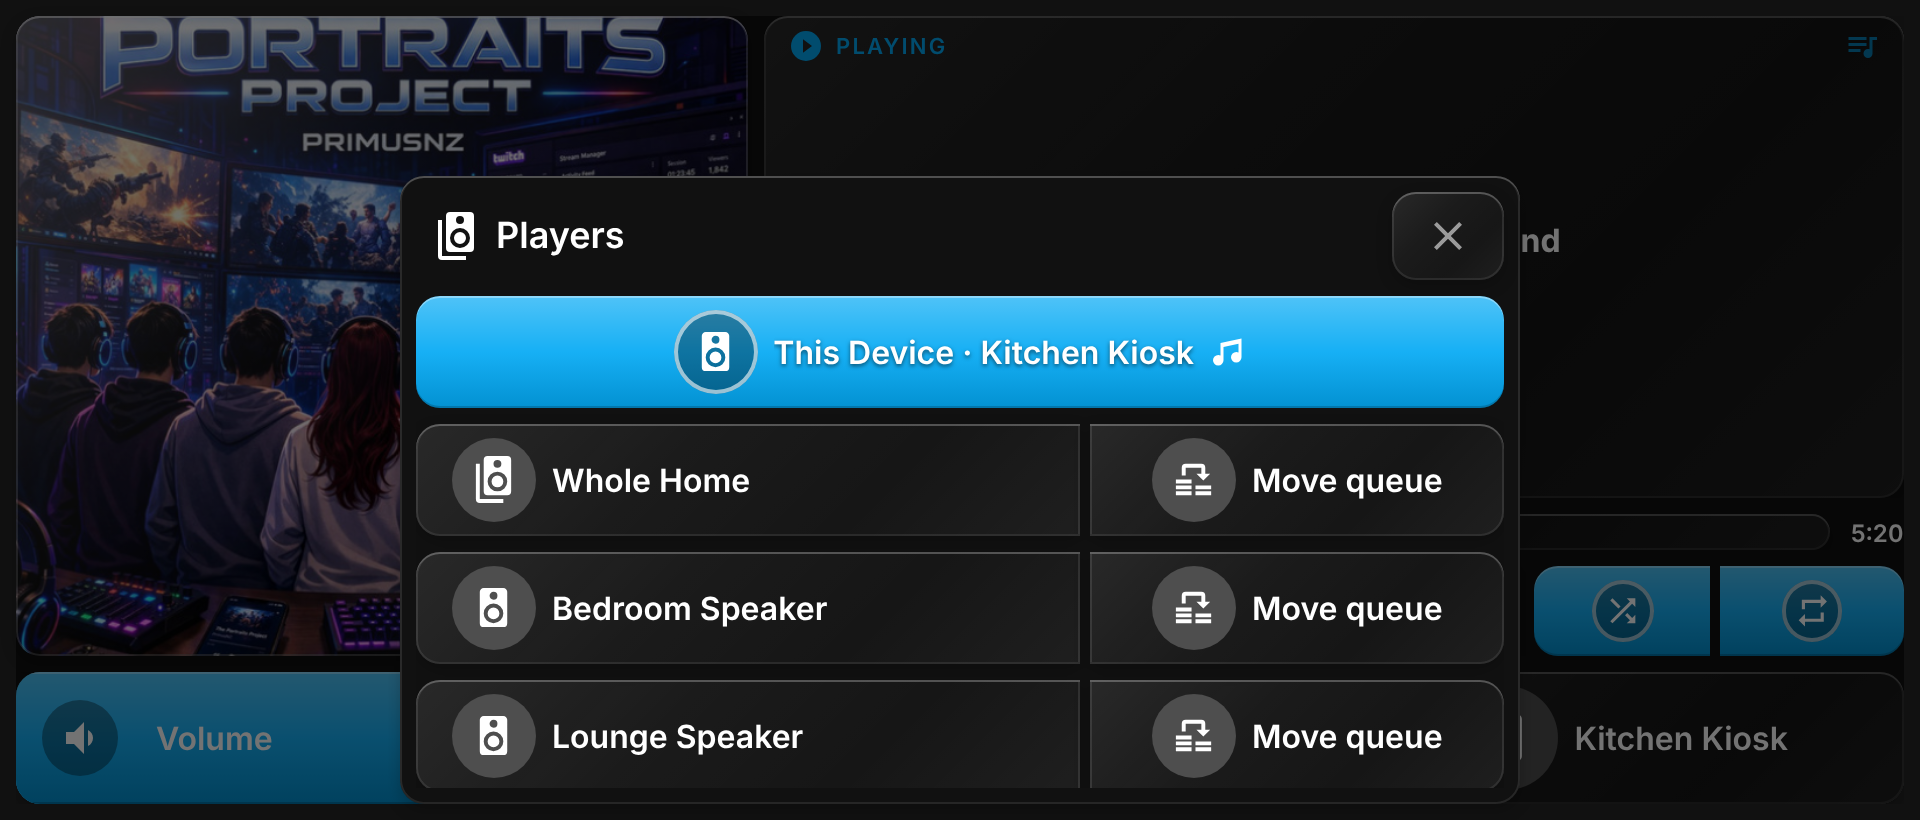
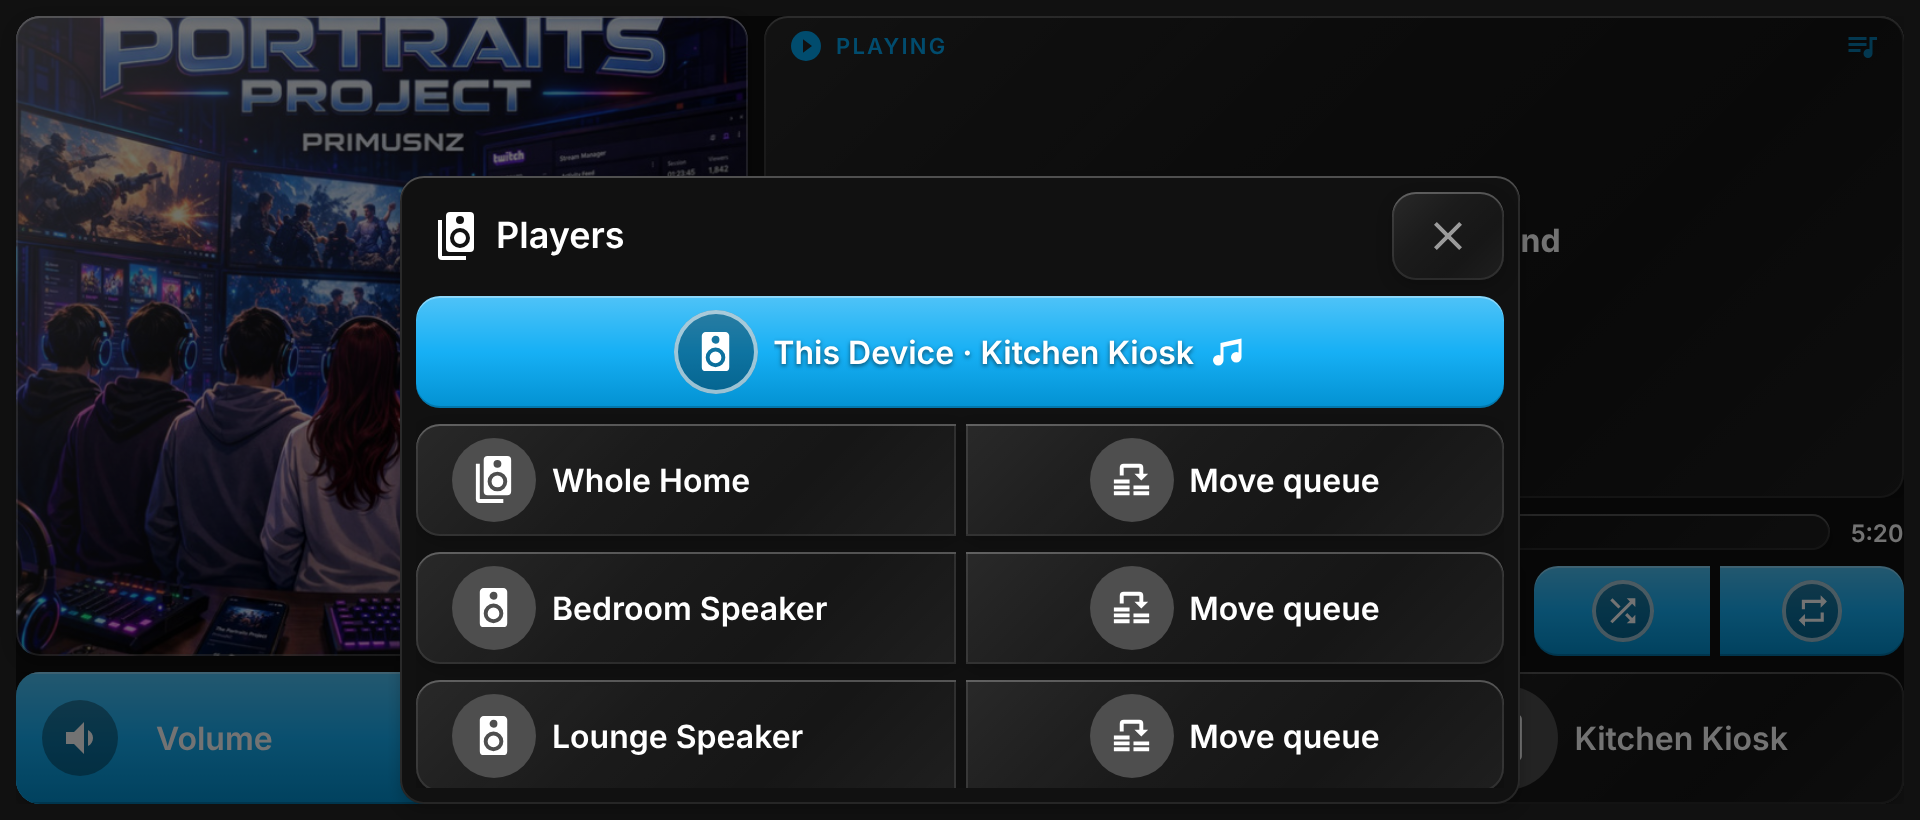
Split player picker rows 50/50 between the player and Move queue

Changed region(s): [[0.5625, 0.5183, 0.75, 0.6402], [0.5625, 0.8232, 0.75, 0.9451], [0.5625, 0.6707, 0.75, 0.7927]]

diff --git a/touch-media-card.js b/touch-media-card.js
@@ -1790,7 +1790,9 @@ button {
           row.append(select);
           if (option.move) {
             const move = cellFor(option.move);
-            move.style.flex = '0 0 38%';
+            // Player and Move queue split the row 50/50.
+            move.style.flex = '1 1 0';
+            move.style.minWidth = '0';
             row.append(move);
           }
           return row;
